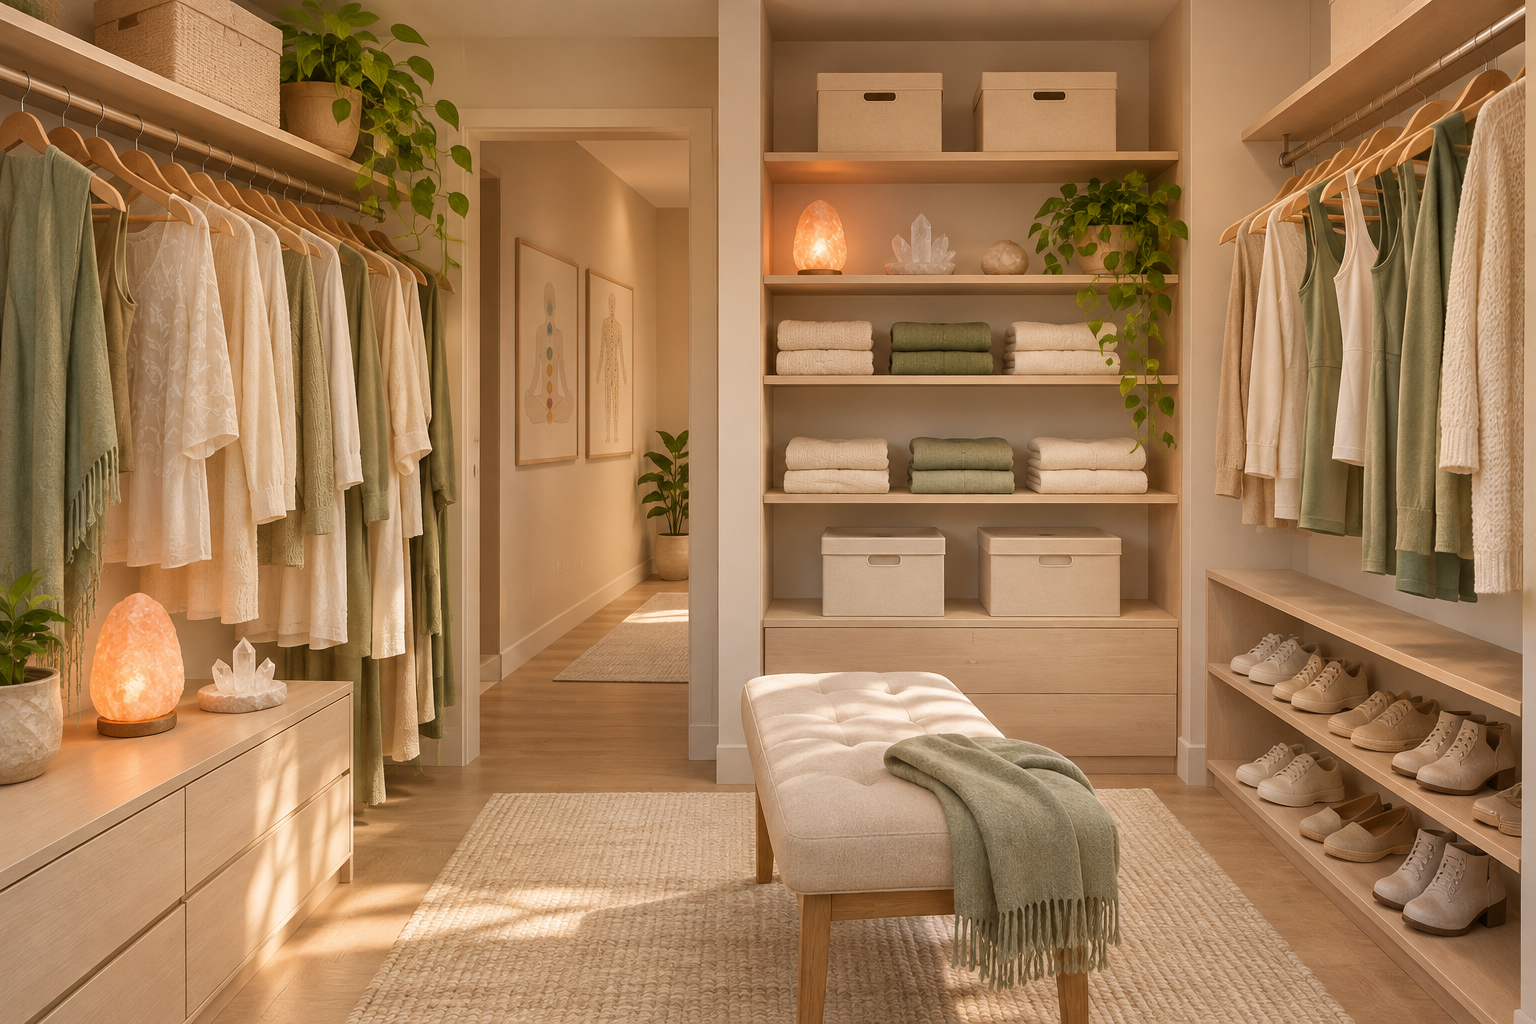
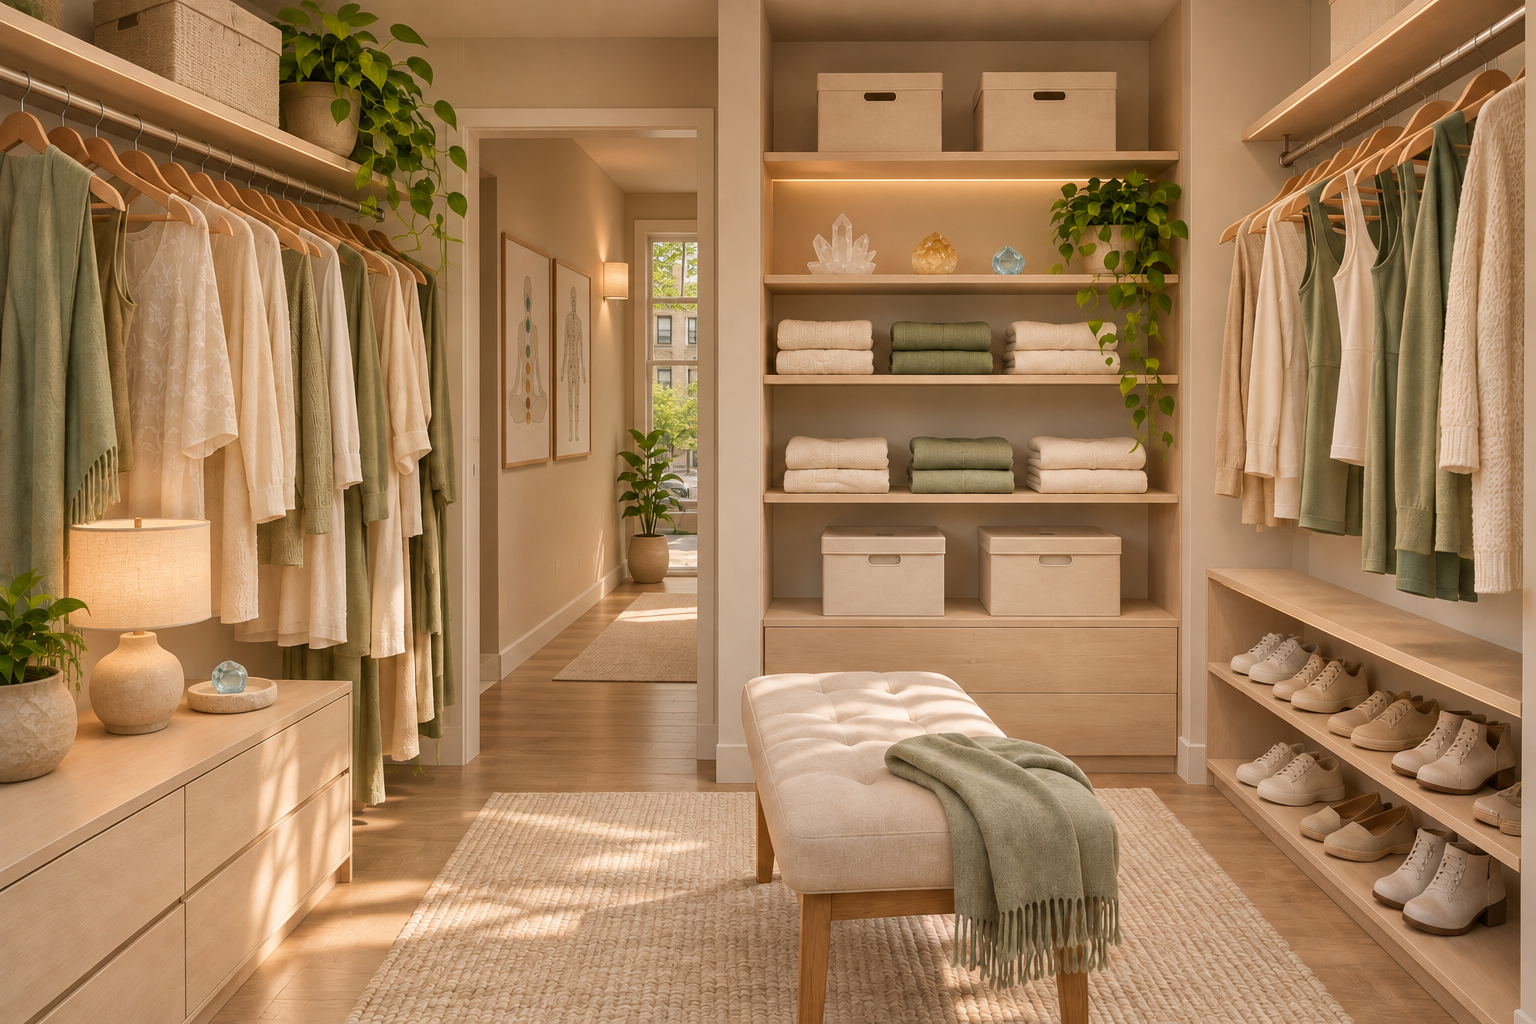
art: refine Priya lighting and add four household utility views

diff --git a/docs/HOUSEHOLD-ROOM-ART-REVIEW.md b/docs/HOUSEHOLD-ROOM-ART-REVIEW.md
@@ -1,14 +1,6 @@
-## Refinement brief clarified
-
-Priya: use salt lamps sparingly across the whole apartment, vary other soft lighting, and vary natural crystal colors (white quartz, topaz, citrine) while keeping the overall calm neutral design. Erin: contemporary furnishings/textiles suited to a younger adult woman, cozy and practical without grandmotherly/floral/lace-heavy styling; this is an aesthetic correction, not a character-age change. Preserve accepted Richard/Nadia sets. Four utility/laundry cupboard detail views remain to be added after the current release verification.
-
-## Owner review update
-
-Nadia and Richard room sets accepted. Priya revisions requested: fewer salt lamps, varied soft lighting. Erin revisions requested: younger, contemporary modest home rather than grandmotherly styling. Four missing hallway utility/laundry cupboard views must be added, including Richard’s bot charging stand. Follow-up is queued after the current release verification; images below are the existing set, not completed revisions.
-
 # Household room-art review
 
-All 27 room illustrations are generated and saved for owner review. They are not wired into the live game. Existing approved artwork is preserved. Source images are 1536×1024 except Nadia’s closet at 1535×1024 (approximately 3:2) for the existing 1100×733 display frame; they have not been resized. Written room graphs control actual doors, ownership and travel; illustrations are architectural concepts, not exact floor plans. Inspect each before approval: generation may introduce visual details that are not authored gameplay.
+All 31 current illustrations are saved for owner review. Erin’s six and Priya’s six images replace rejected files in place. Accepted Richard/Nadia room images remain unchanged. Four utility-cupboard views show laundry and cleaning storage, including Richard’s bot charging stand. Floors: Priya 2F, Erin 3C, Nadia 6E, Richard 7A. Sources are approximately 3:2 for the 1100×733 display frame; per-file dimensions are in the manifest. Illustrations remain review concepts; written room graphs control gameplay.
 
 ## Richard
 
@@ -126,4 +118,23 @@ All 27 room illustrations are generated and saved for owner review. They are not
 
 ![priya — Entry Hall](../rebuild/hub/assets/room-art-review/priya-hall.png)
 
+
+
+## Hallway utility cupboard views
+
+### Richard
+
+![richard utility cupboard](../rebuild/hub/assets/room-art-review/richard-utility.png)
+
+### Nadia
+
+![nadia utility cupboard](../rebuild/hub/assets/room-art-review/nadia-utility.png)
+
+### Erin
+
+![erin utility cupboard](../rebuild/hub/assets/room-art-review/erin-utility.png)
+
+### Priya
+
+![priya utility cupboard](../rebuild/hub/assets/room-art-review/priya-utility.png)
 

diff --git a/docs/CURRENT-STATUS.md b/docs/CURRENT-STATUS.md
@@ -1,3 +1,7 @@
+## Room-art refinement complete — publication verification next
+
+31 current review assets: six Erin contemporary revisions, six Priya sparse-salt-lamp revisions, four new utility cupboard views. Replacements use canonical filenames; no duplicate rejected versions. Accepted Richard/Nadia room art unchanged. Floor briefs use Priya 2F, Erin 3C, Nadia 6E, Richard 7A. Manifest hashes and dimensions validated for all 31. Gameplay remains verified v1.0.108. Next: publish both branches and compare public image hashes. Discord bridge deferred at owner request; later provide step-by-step setup. After art, review Priya gaps with owner before selecting refinements.
+
 ## Room-art refinement in progress — replacements, not duplicates
 
 Erin's six room images have been revised in place for a younger contemporary, comfortable adult style; third-floor views were specified. Original filenames remain and rejected files are replaced, with previous hashes retained only as metadata/history. Priya's six edits are processing (second-floor views, sparse salt lamps, varied soft lighting and quartz/citrine/topaz). Four utility/laundry cupboard views still need generation, including Richard's bot charging stand. Accepted Richard/Nadia files are unchanged. No gameplay code changed by this art checkpoint.
